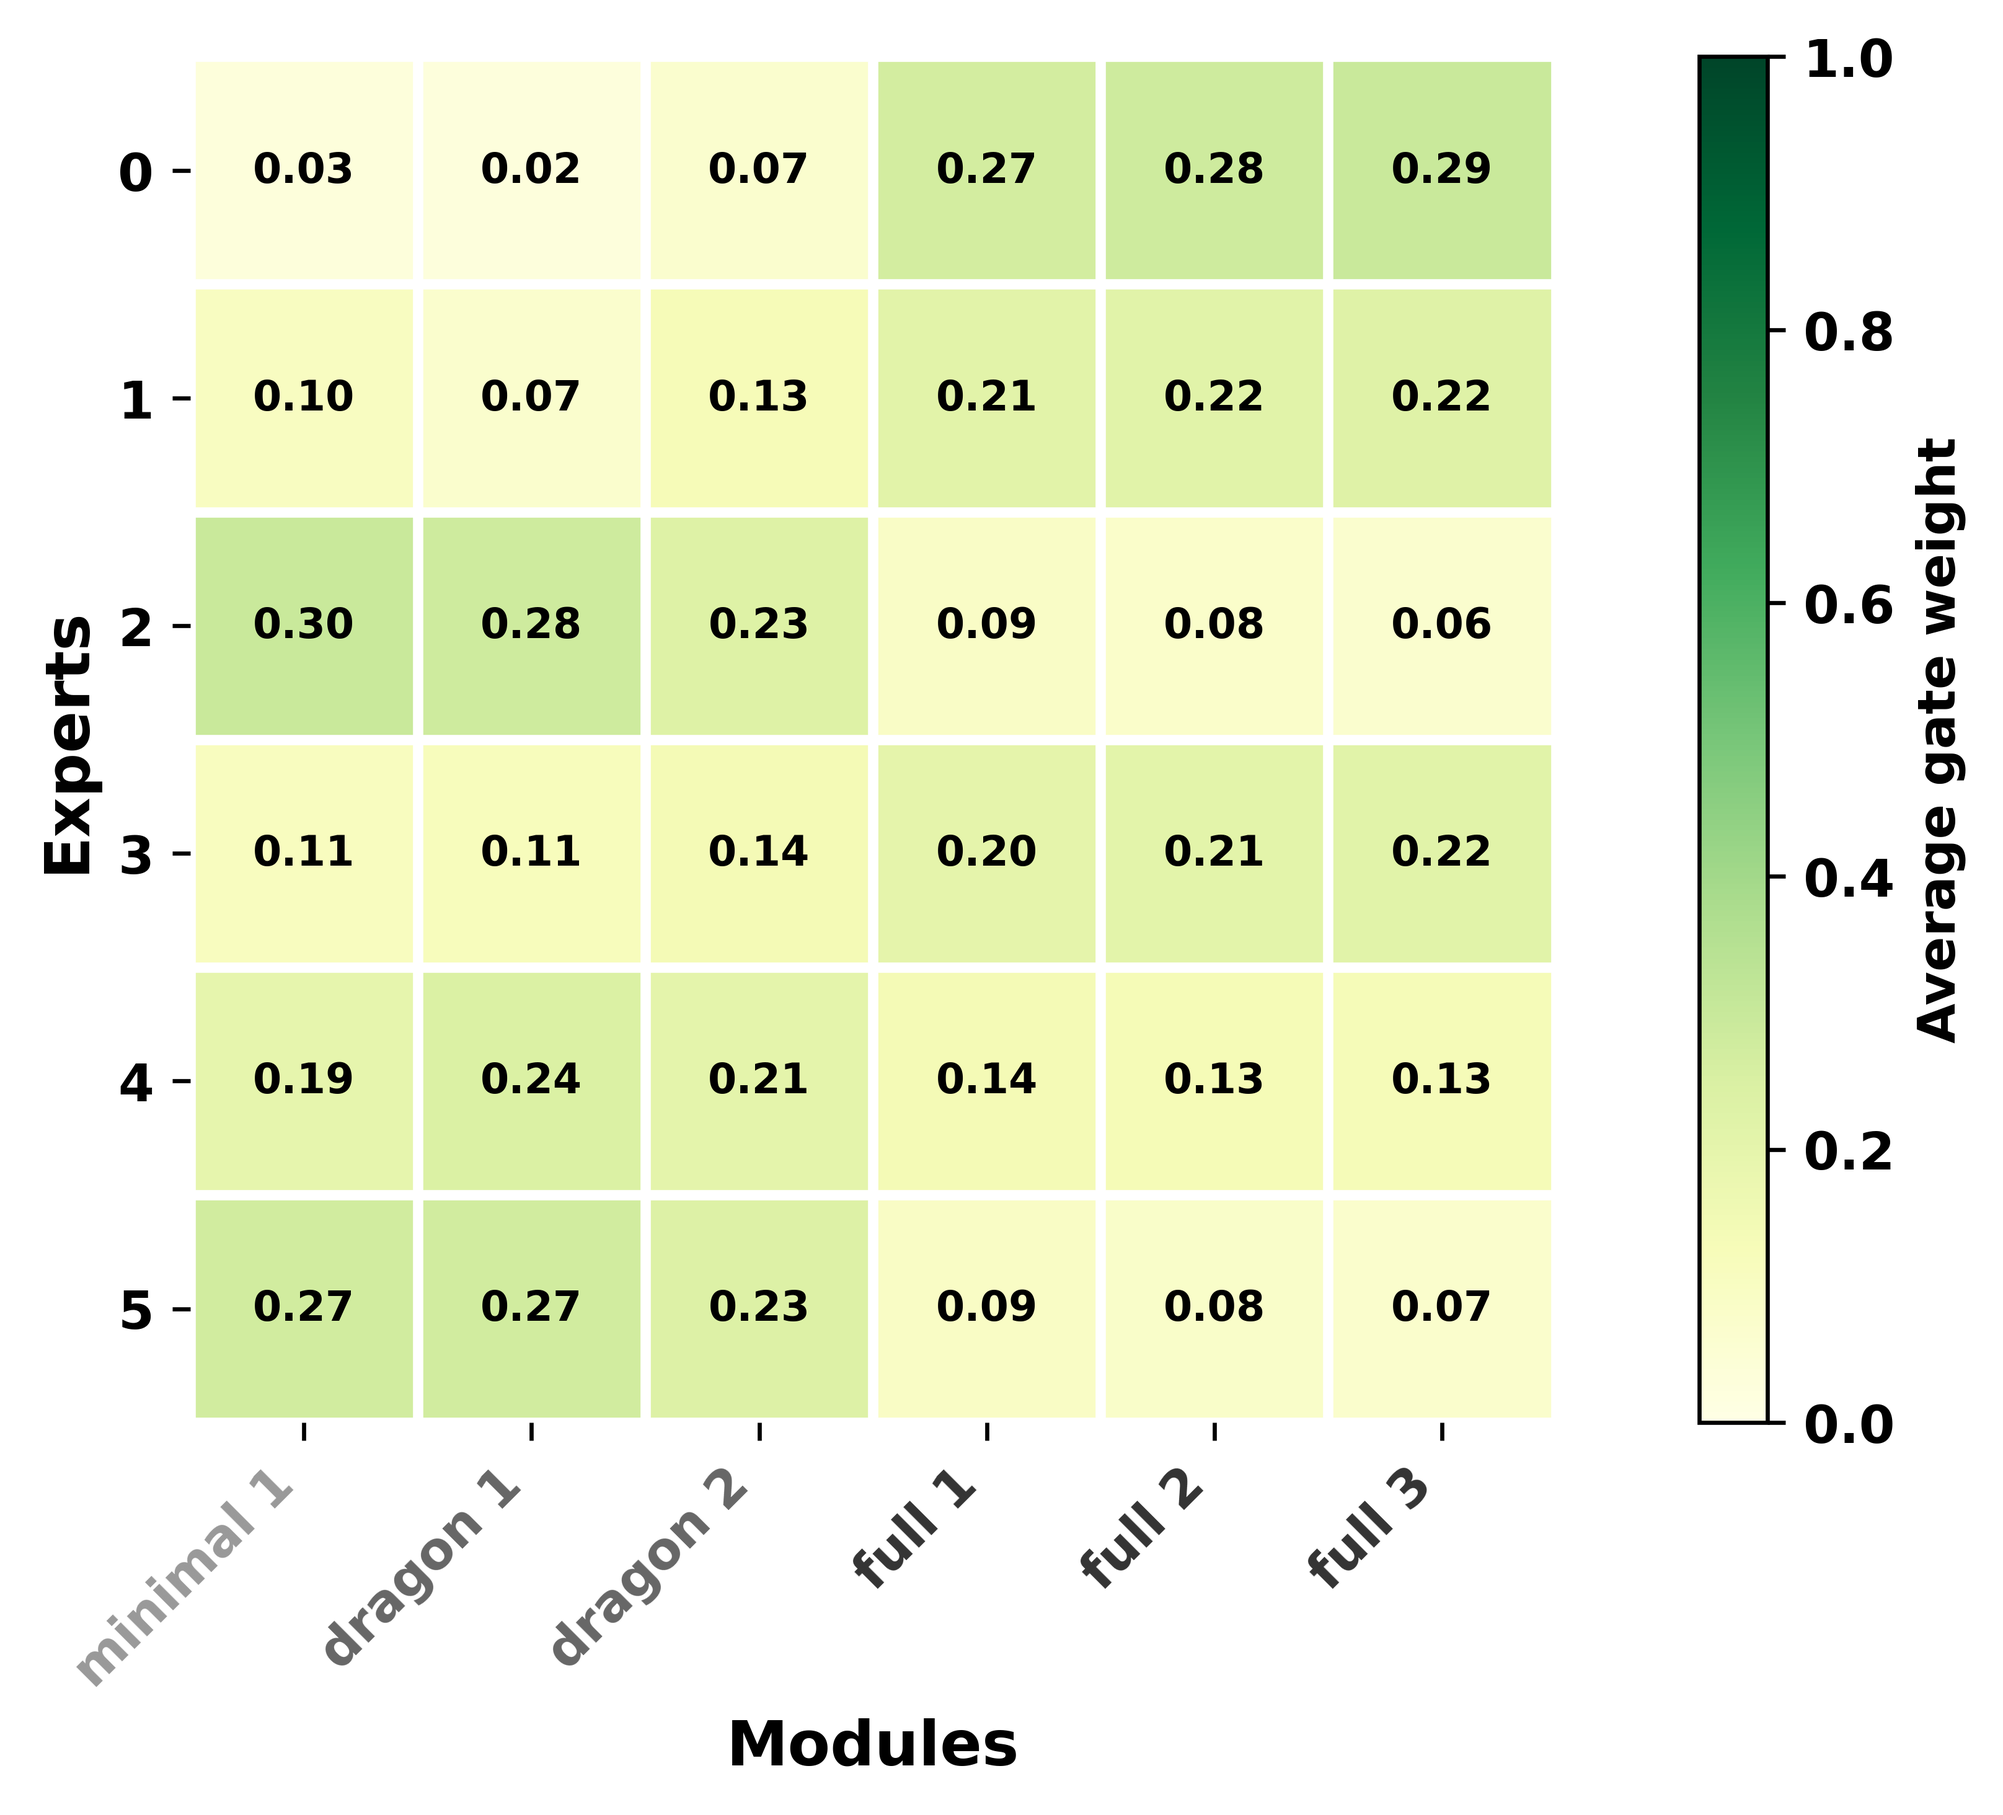
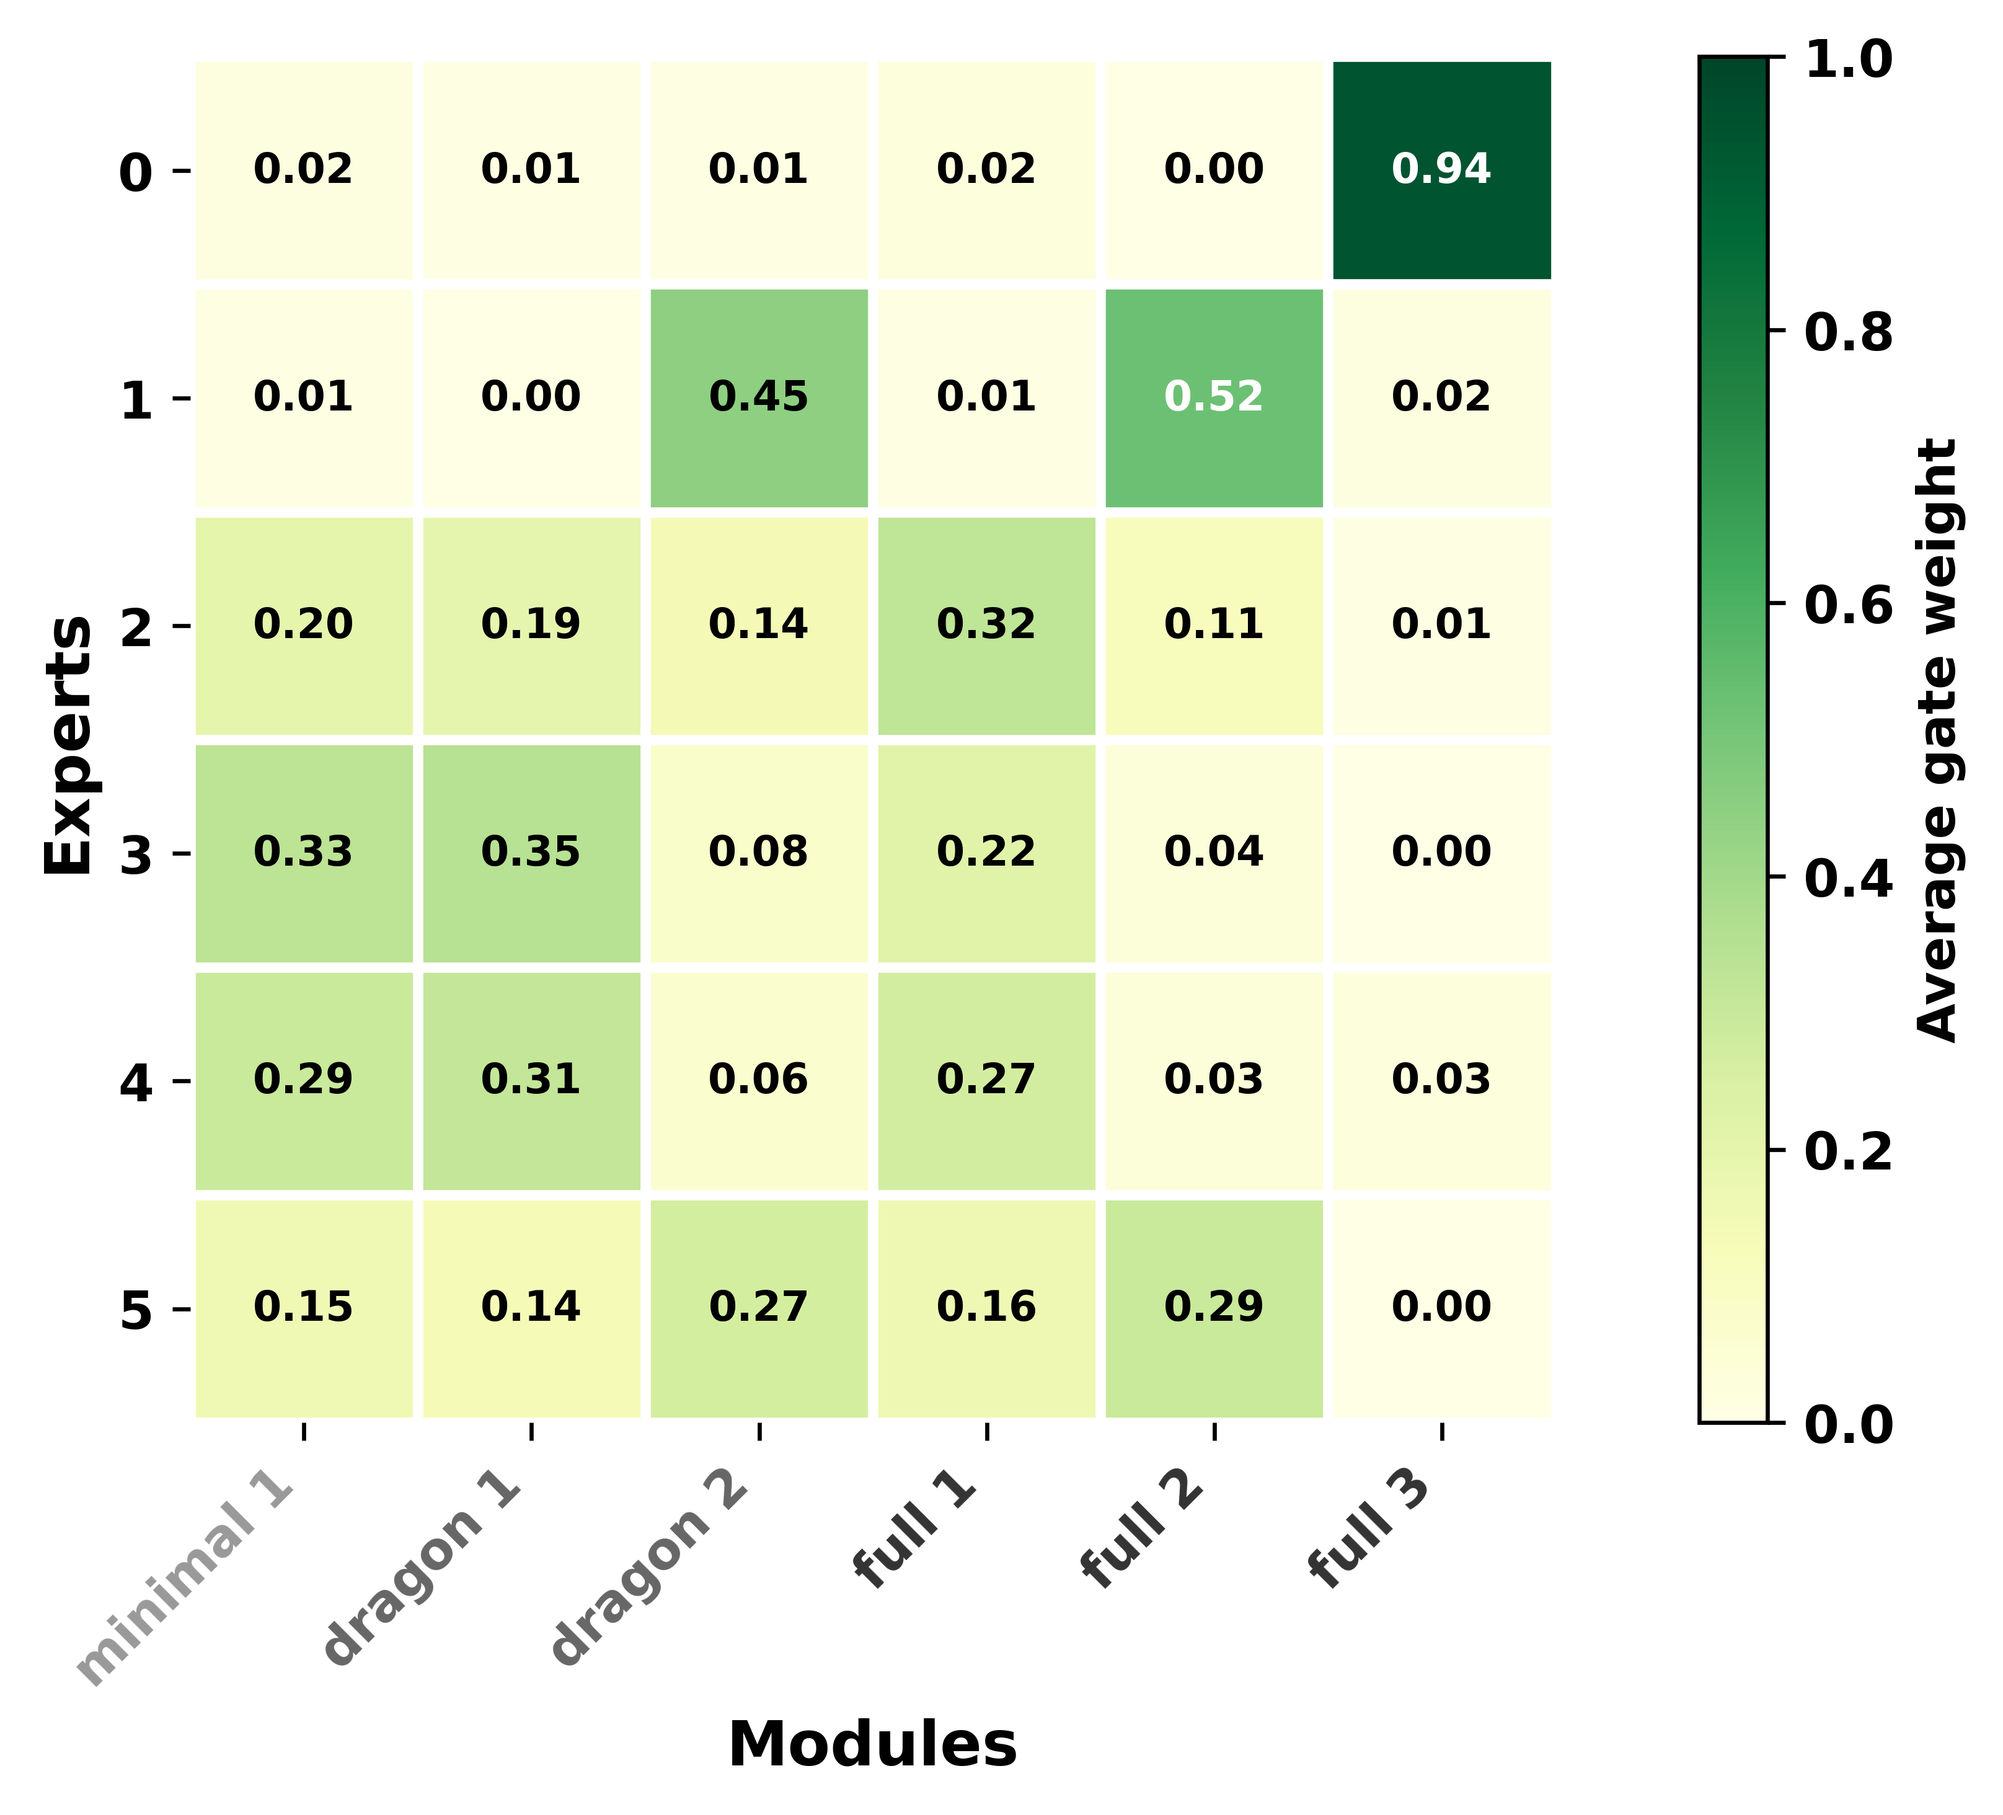
Upload Image.

Changed region(s): [[0.0929, 0.0311, 0.7738, 0.8083], [0.3714, 0.4663, 0.4024, 0.4974], [0.3714, 0.342, 0.4024, 0.3731]]

diff --git a/source/moonbot_envs/moonbot_envs/envs/agents/M2oE_cfg.py b/source/moonbot_envs/moonbot_envs/envs/agents/M2oE_cfg.py
@@ -23,9 +23,9 @@ class M2oE_Cfg(M2oEOnPolicyRunnerCfg):
         gate_type="attention",
         gate_embedding_dim=32,
         gate_num_heads=4,
-        gate_num_layers=1,
+        gate_num_layers=2,
         gate_dropout=0.1,
-        gate_use_positional_embedding=False,
+        gate_use_positional_embedding=True,
     )
     algorithm = RslRlPpoAlgorithmCfg(
         value_loss_coef=1.0,
